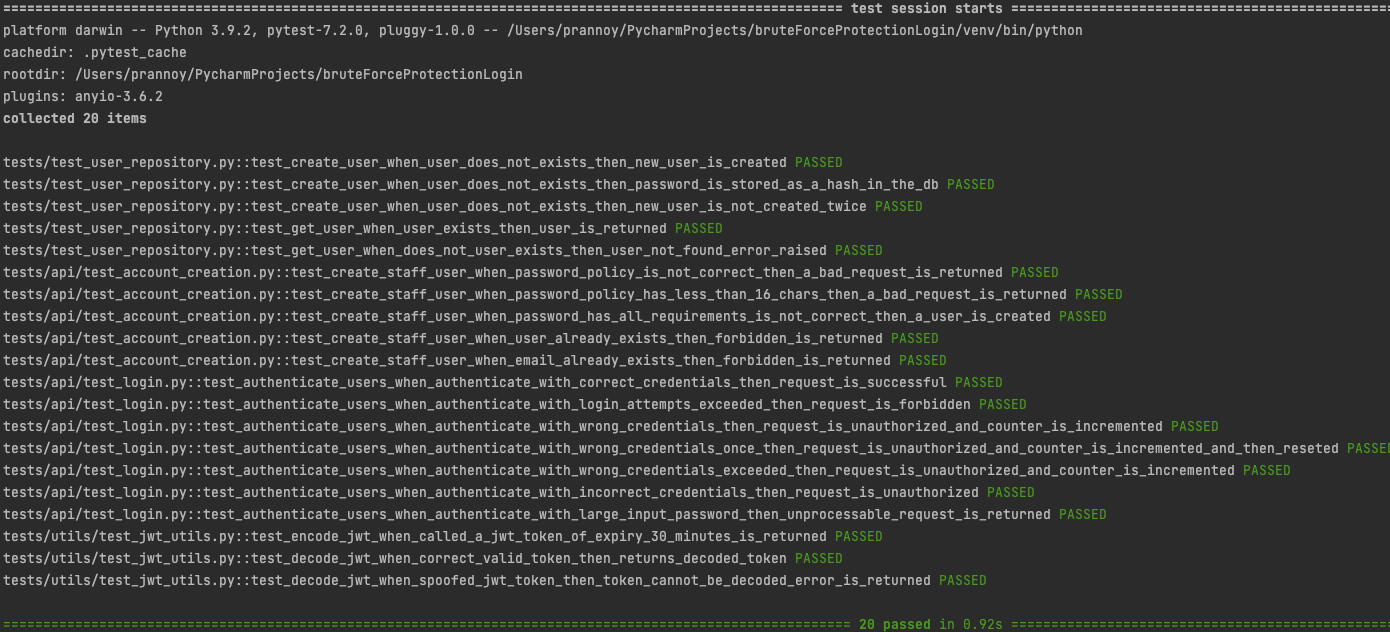
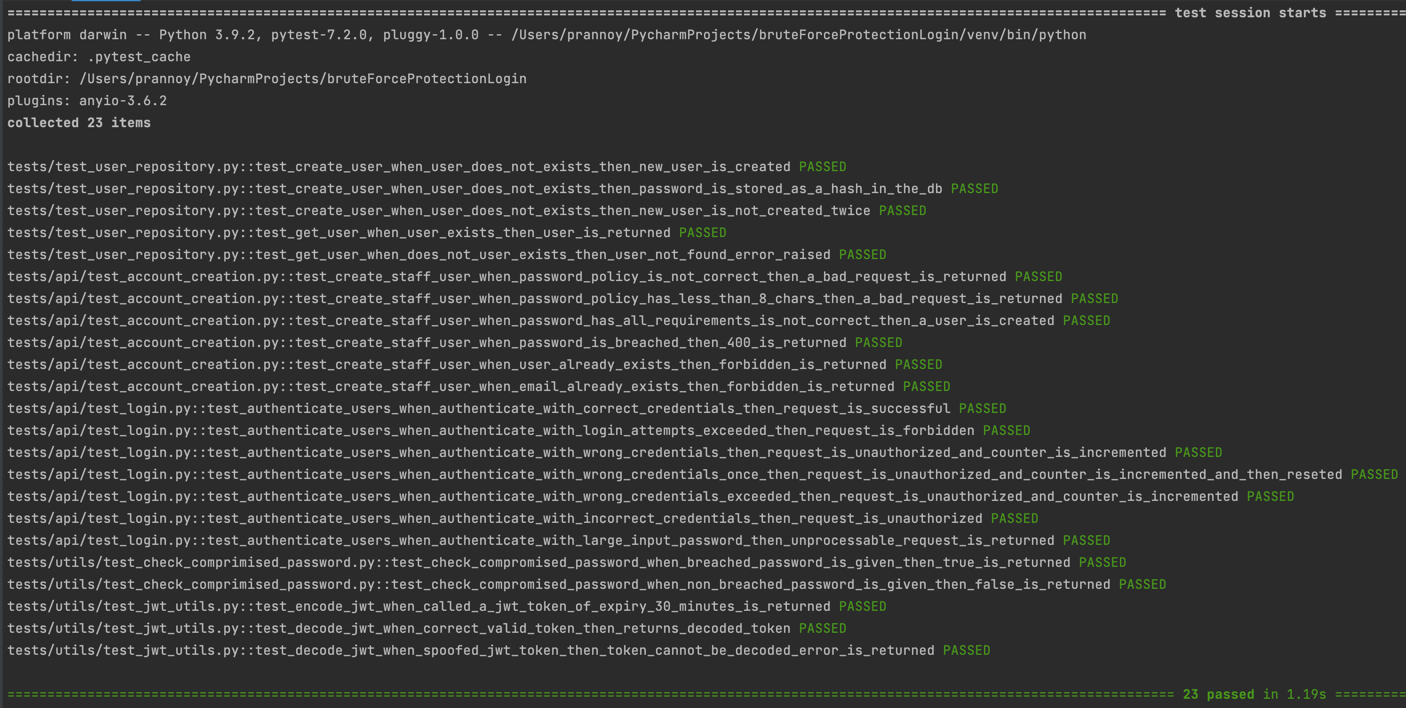
updated README.md

Changed region(s): [[0.0, 0.0, 1.0, 0.932], [0.0, 0.962, 1.0, 1.0]]

diff --git a/tests/api/test_account_creation.py b/tests/api/test_account_creation.py
@@ -8,7 +8,7 @@ from starlette.testclient import TestClient
 import utils
 from config.models.ProjectSettings import ProjectSettings
 from schemas.StaffUserCreateRequest import StaffUserCreateRequest
-from utils.password_check import PasswordCheck
+from utils.password_check import check_compromised_password
 
 EMAIL = "test@test"
 
@@ -52,7 +52,7 @@ def test_create_staff_user_when_password_policy_has_less_than_8_chars_then_a_bad
 def test_create_staff_user_when_password_has_all_requirements_is_not_correct_then_a_user_is_created(session: Session,
                                                                                                     client: TestClient):
     # Given
-    PasswordCheck.check_compromised_password = Mock(return_value=False)
+    utils.password_check.check_compromised_password = Mock(return_value=False)
     user: StaffUserCreateRequest = StaffUserCreateRequest(username=USERNAME, password=VALID_PASSWORD, email=EMAIL)
 
     # When
@@ -67,7 +67,7 @@ def test_create_staff_user_when_password_has_all_requirements_is_not_correct_the
 def test_create_staff_user_when_password_is_breached_then_400_is_returned(session: Session,
                                                                           client: TestClient):
     # Given
-    PasswordCheck.check_compromised_password = Mock(return_value=True)
+    utils.password_check.check_compromised_password = Mock(return_value=True)
     user: StaffUserCreateRequest = StaffUserCreateRequest(username=USERNAME, password=VALID_PASSWORD, email=EMAIL)
 
     # When
@@ -82,7 +82,7 @@ def test_create_staff_user_when_password_is_breached_then_400_is_returned(sessio
 def test_create_staff_user_when_user_already_exists_then_forbidden_is_returned(session: Session,
                                                                                client: TestClient):
     # Given
-    PasswordCheck.check_compromised_password = Mock(return_value=False)
+    utils.password_check.check_compromised_password = Mock(return_value=False)
     user: StaffUserCreateRequest = StaffUserCreateRequest(username=USERNAME, password=VALID_PASSWORD, email=EMAIL)
 
     # When
@@ -103,7 +103,7 @@ def test_create_staff_user_when_user_already_exists_then_forbidden_is_returned(s
 def test_create_staff_user_when_email_already_exists_then_forbidden_is_returned(session: Session,
                                                                                 client: TestClient):
     # Given
-    PasswordCheck.check_compromised_password = Mock(return_value=False)
+    utils.password_check.check_compromised_password = Mock(return_value=False)
     user_1: StaffUserCreateRequest = StaffUserCreateRequest(username=USERNAME, password=VALID_PASSWORD, email=EMAIL)
     user_2: StaffUserCreateRequest = StaffUserCreateRequest(username="USERNAME", password=VALID_PASSWORD, email=EMAIL)
 

diff --git a/utils/password_check.py b/utils/password_check.py
@@ -6,31 +6,19 @@ from pydantic.fields import defaultdict
 
 PAWNED_URL = "https://api.pwnedpasswords.com/range/{}"
 
-class PasswordCheck:
-    """
-    This function uses the api provided by pwnedpasswords to check if the password has been already breached.
-    The API uses K-Anonymity to accept the SHA1 password. Where only the first 5 letters of the
-    SHA1 encoded password is encoded. Then the API returns a range of breached password and the number of times.
-    See <a href=https://sanatinia.medium.com/securely-check-if-a-password-is-compromised-in-python-be74bf52b0cc />
-    """
-    @staticmethod
-    def check_compromised_password(passwd: str):
-        sha1 = hashlib.sha1()
-        sha1.update(passwd.encode())
-        hex_digest = sha1.hexdigest().upper()
-        # get the first five SHA1 hex
-        hex_digest_f5 = hex_digest[:5]
-        # The remaining hex
-        hex_digest_remaining = hex_digest[5:]
-        r = requests.get(PAWNED_URL.format(hex_digest_f5))
-        leaked_passwd_freq = defaultdict(int)
-        for passwd_freq in r.content.splitlines():
-            pass_parts = passwd_freq.split(b":")
-            passwd = pass_parts[0].decode()
-            freq = pass_parts[1]
-            leaked_passwd_freq[passwd] = int(freq)
-        return hex_digest_remaining in leaked_passwd_freq
-
-
-def decoy_function_for_test(passwd: str):
-    PasswordCheck.check_compromised_password(passwd)
+def check_compromised_password(passwd: str):
+    sha1 = hashlib.sha1()
+    sha1.update(passwd.encode())
+    hex_digest = sha1.hexdigest().upper()
+    # get the first five SHA1 hex
+    hex_digest_f5 = hex_digest[:5]
+    # The remaining hex
+    hex_digest_remaining = hex_digest[5:]
+    r = requests.get(PAWNED_URL.format(hex_digest_f5))
+    leaked_passwd_freq = defaultdict(int)
+    for passwd_freq in r.content.splitlines():
+        pass_parts = passwd_freq.split(b":")
+        passwd = pass_parts[0].decode()
+        freq = pass_parts[1]
+        leaked_passwd_freq[passwd] = int(freq)
+    return hex_digest_remaining in leaked_passwd_freq

diff --git a/api/account_creation.py b/api/account_creation.py
@@ -3,12 +3,12 @@ from sqlmodel import Session
 from starlette import status
 from starlette.responses import JSONResponse
 
+import utils.password_check
 from db.dbconfig import get_session
 from crud.users_repository import UserRepository
 from exceptions.CannotCreateUserError import CannotCreateUserError
 from schemas.StaffUserCreateRequest import StaffUserCreateRequest
 from utils.logging import get_logger
-from utils.password_check import PasswordCheck
 
 from utils.password_policy import policy
 
@@ -29,7 +29,7 @@ async def create_staff_user(staff: StaffUserCreateRequest, session: Session = De
             "message": "The password is not strong enough use at least 8 character, 2 Uppercase, 2 numbers, 2 specials, and 2 digits"})
     # Check if the password has already been breached
     # This is important because the staff password should not be a victim of an easy credential stuffing attack
-    is_compromised = PasswordCheck.check_compromised_password(staff.password)
+    is_compromised = utils.password_check.check_compromised_password(staff.password)
     if is_compromised:
         return JSONResponse(status_code=status.HTTP_400_BAD_REQUEST, content={
             "message": "The Password has already been breached, please use another one"})

diff --git a/tests/utils/test_check_comprimised_password.py b/tests/utils/test_check_comprimised_password.py
@@ -3,7 +3,7 @@ from unittest.mock import MagicMock
 import requests
 
 from utils.jwt_utils import get_project_root
-from utils.password_check import PasswordCheck, decoy_function_for_test
+from utils.password_check import check_compromised_password
 
 
 def test_check_compromised_password_when_breached_password_is_given_then_true_is_returned():
@@ -14,7 +14,7 @@ def test_check_compromised_password_when_breached_password_is_given_then_true_is
         mock_response.status_code = 200
         mock_response.content = s
         requests.get.return_value = mock_response
-        result = decoy_function_for_test("test1234")
+        result = check_compromised_password("test1234")
         assert result
 
 
@@ -26,5 +26,5 @@ def test_check_compromised_password_when_non_breached_password_is_given_then_fal
         mock_response.status_code = 200
         mock_response.content = s
         requests.get.return_value = mock_response
-        result = PasswordCheck().check_compromised_password("Very$GoodPassQord$3!%")
+        result = check_compromised_password("Very$GoodPassQord$3!%")
         assert result == False

diff --git a/README.md b/README.md
@@ -78,6 +78,8 @@ not expose any information about what is missing or wrong.
 * After authentication tokens are signed using a [private key](./private_key_for_testing_purposes.pem). 
 The digitally signed tokens prevents spoofing. The spoofing is tested using an unsigned token which is rejected by the [automatic test](./tests/utils/test_jwt_utils.py).   
 * Logging application error in ```JSON``` format, this helps the Security information and event management (SIEM) parse the errors easily.
+* Breached credentials are checked using pawned password API. Using K-anonymity only first 5 letters of the SHA1 is sent to the API for comparison
+and is then evaluated in the code.
 
 # Outputs
 * The example for an output log in JSON can be found in the output folder [error_log_output.json](./docs/outputs/error_log_ouput.json).
@@ -107,3 +109,4 @@ with a fake token is returned. A Signed JWT token is used so that Oauth flow can
 * How to configure a custom logger in Json in python <a href=https://pypi.org/project/python-json-logger/> Json Logger</a>.
 * Biryukov, A., Dinu, D. and Khovratovich, D., 2016, March. Argon2: new generation of memory-hard functions for password hashing and other applications. In 2016 IEEE European Symposium on Security and Privacy (EuroS&P) (pp. 292-302). IEEE.
 * Oauth.net. (2020). OAuth 2.0 — OAuth. [online] Available at: https://oauth.net/2/.
+* Checking for breached passwords using K-anonymity <a href=https://sanatinia.medium.com/securely-check-if-a-password-is-compromised-in-python-be74bf52b0cc> Checking Breached Passwords</a>.
